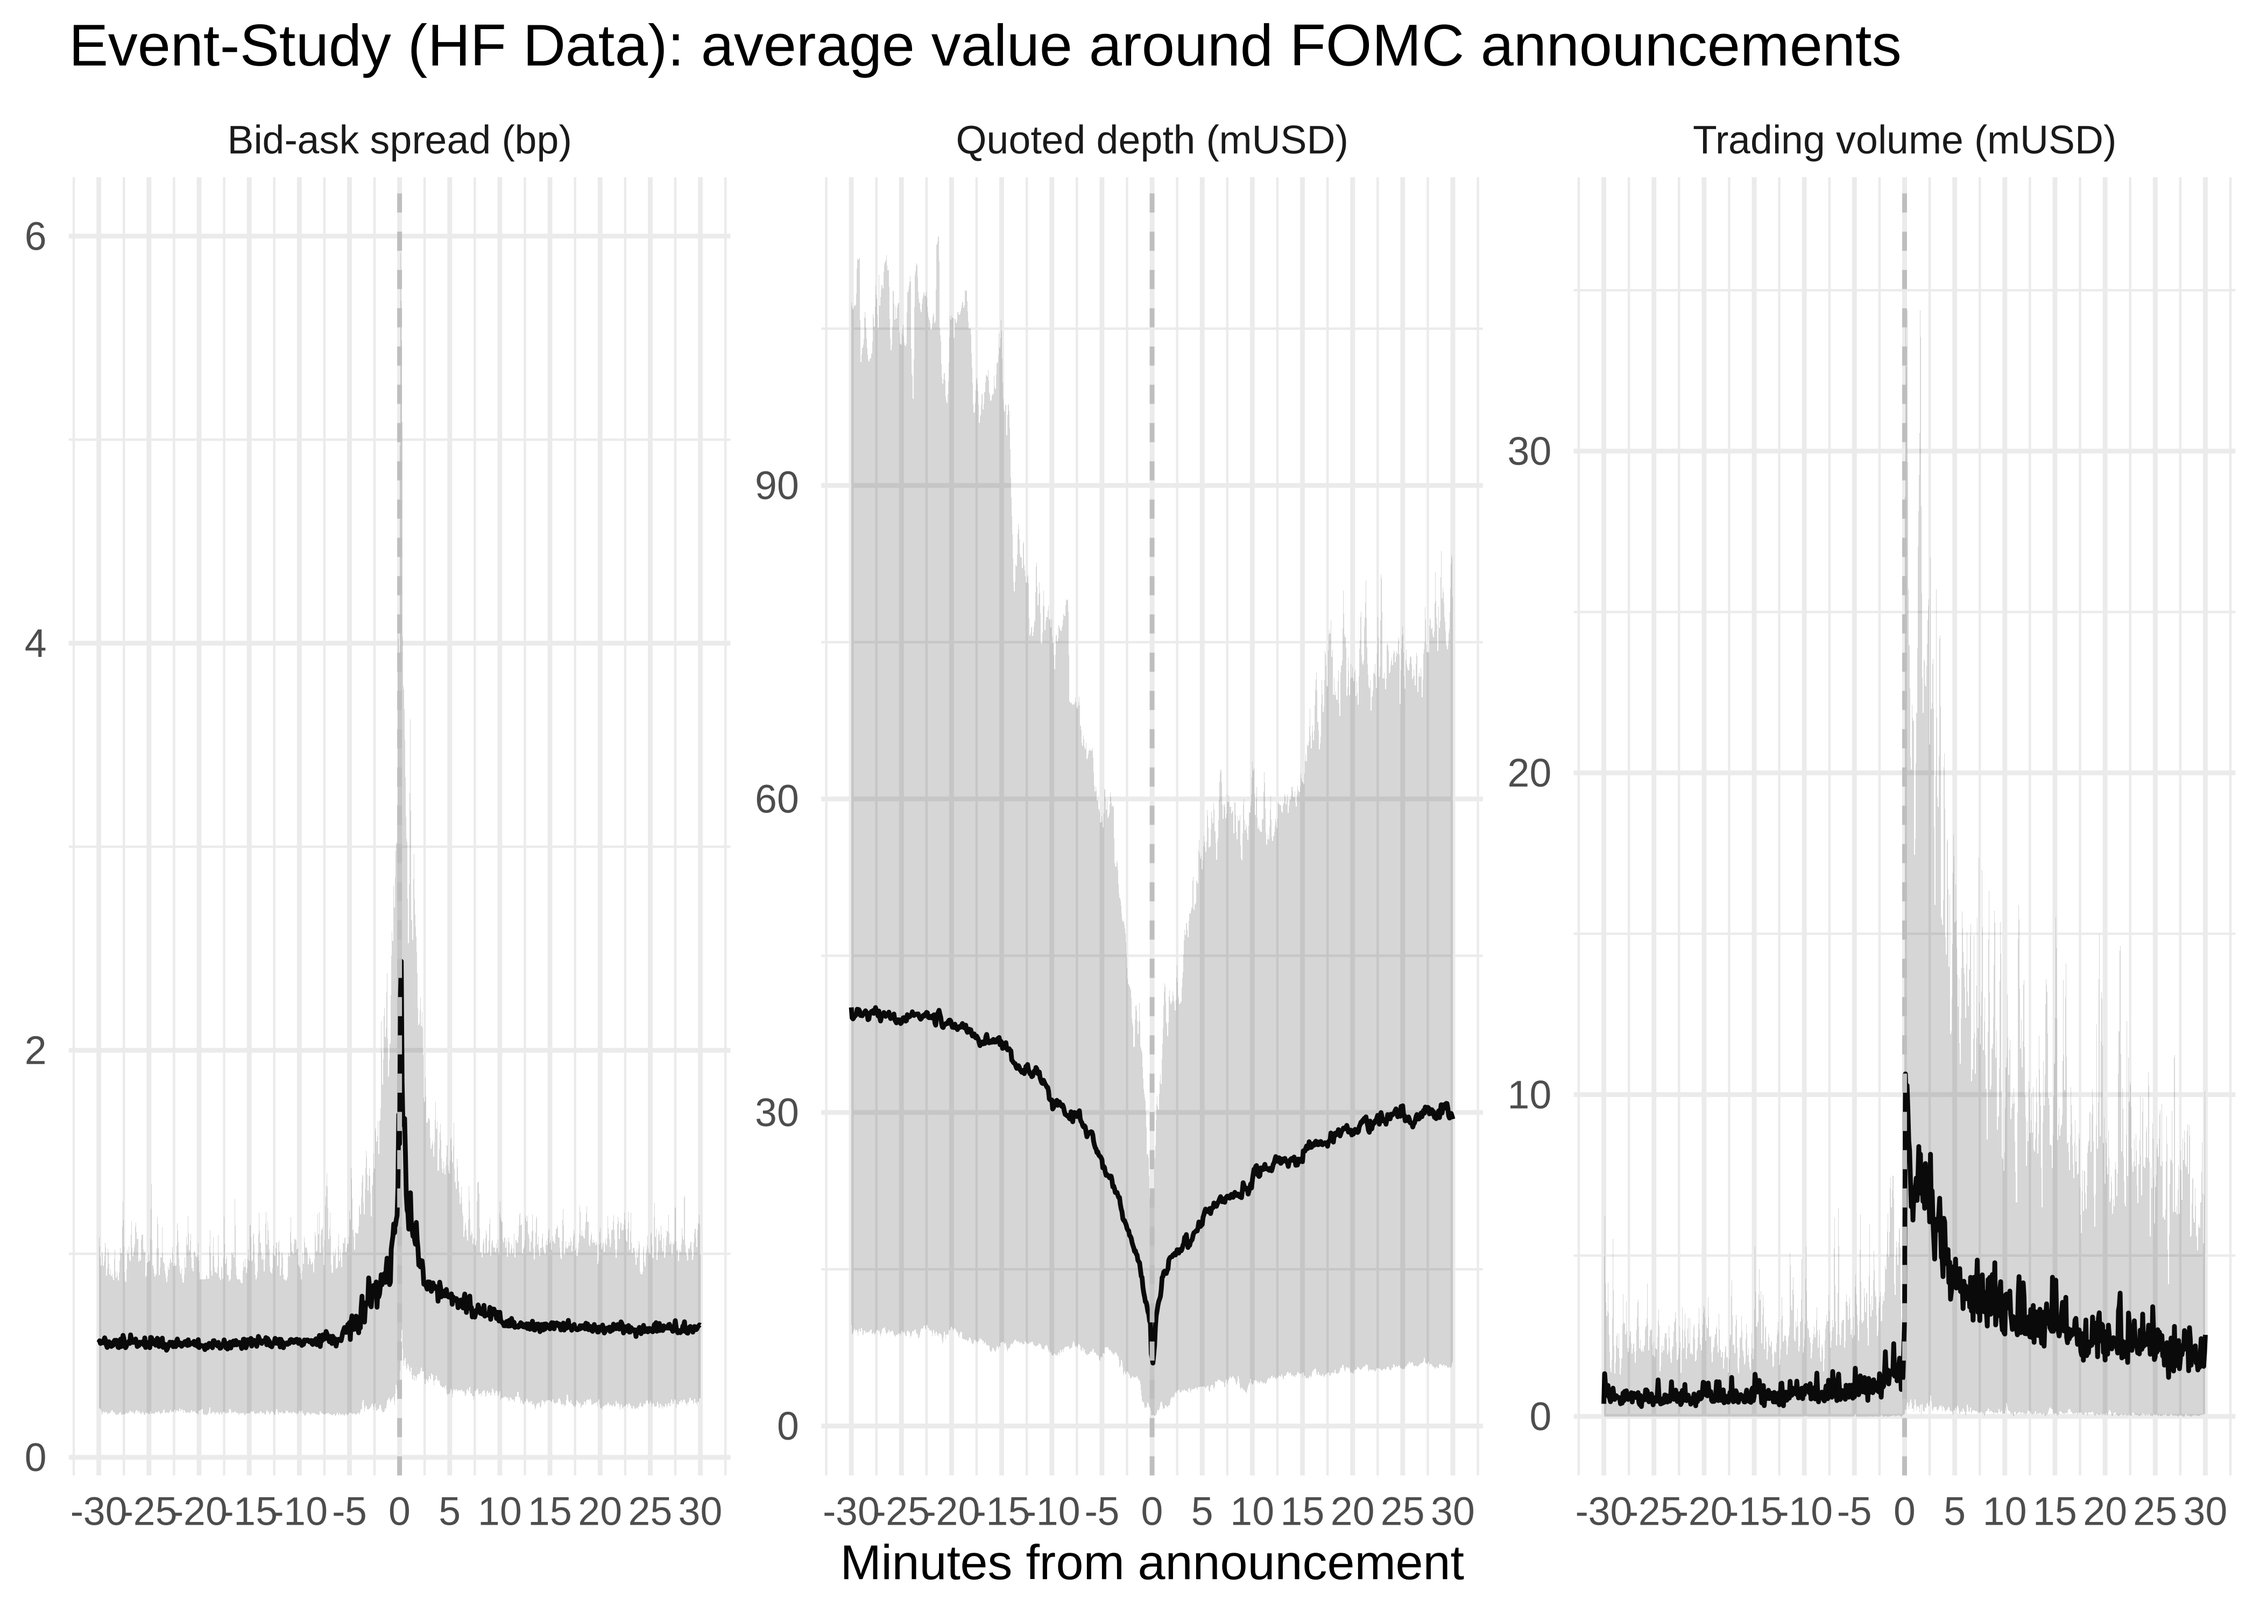
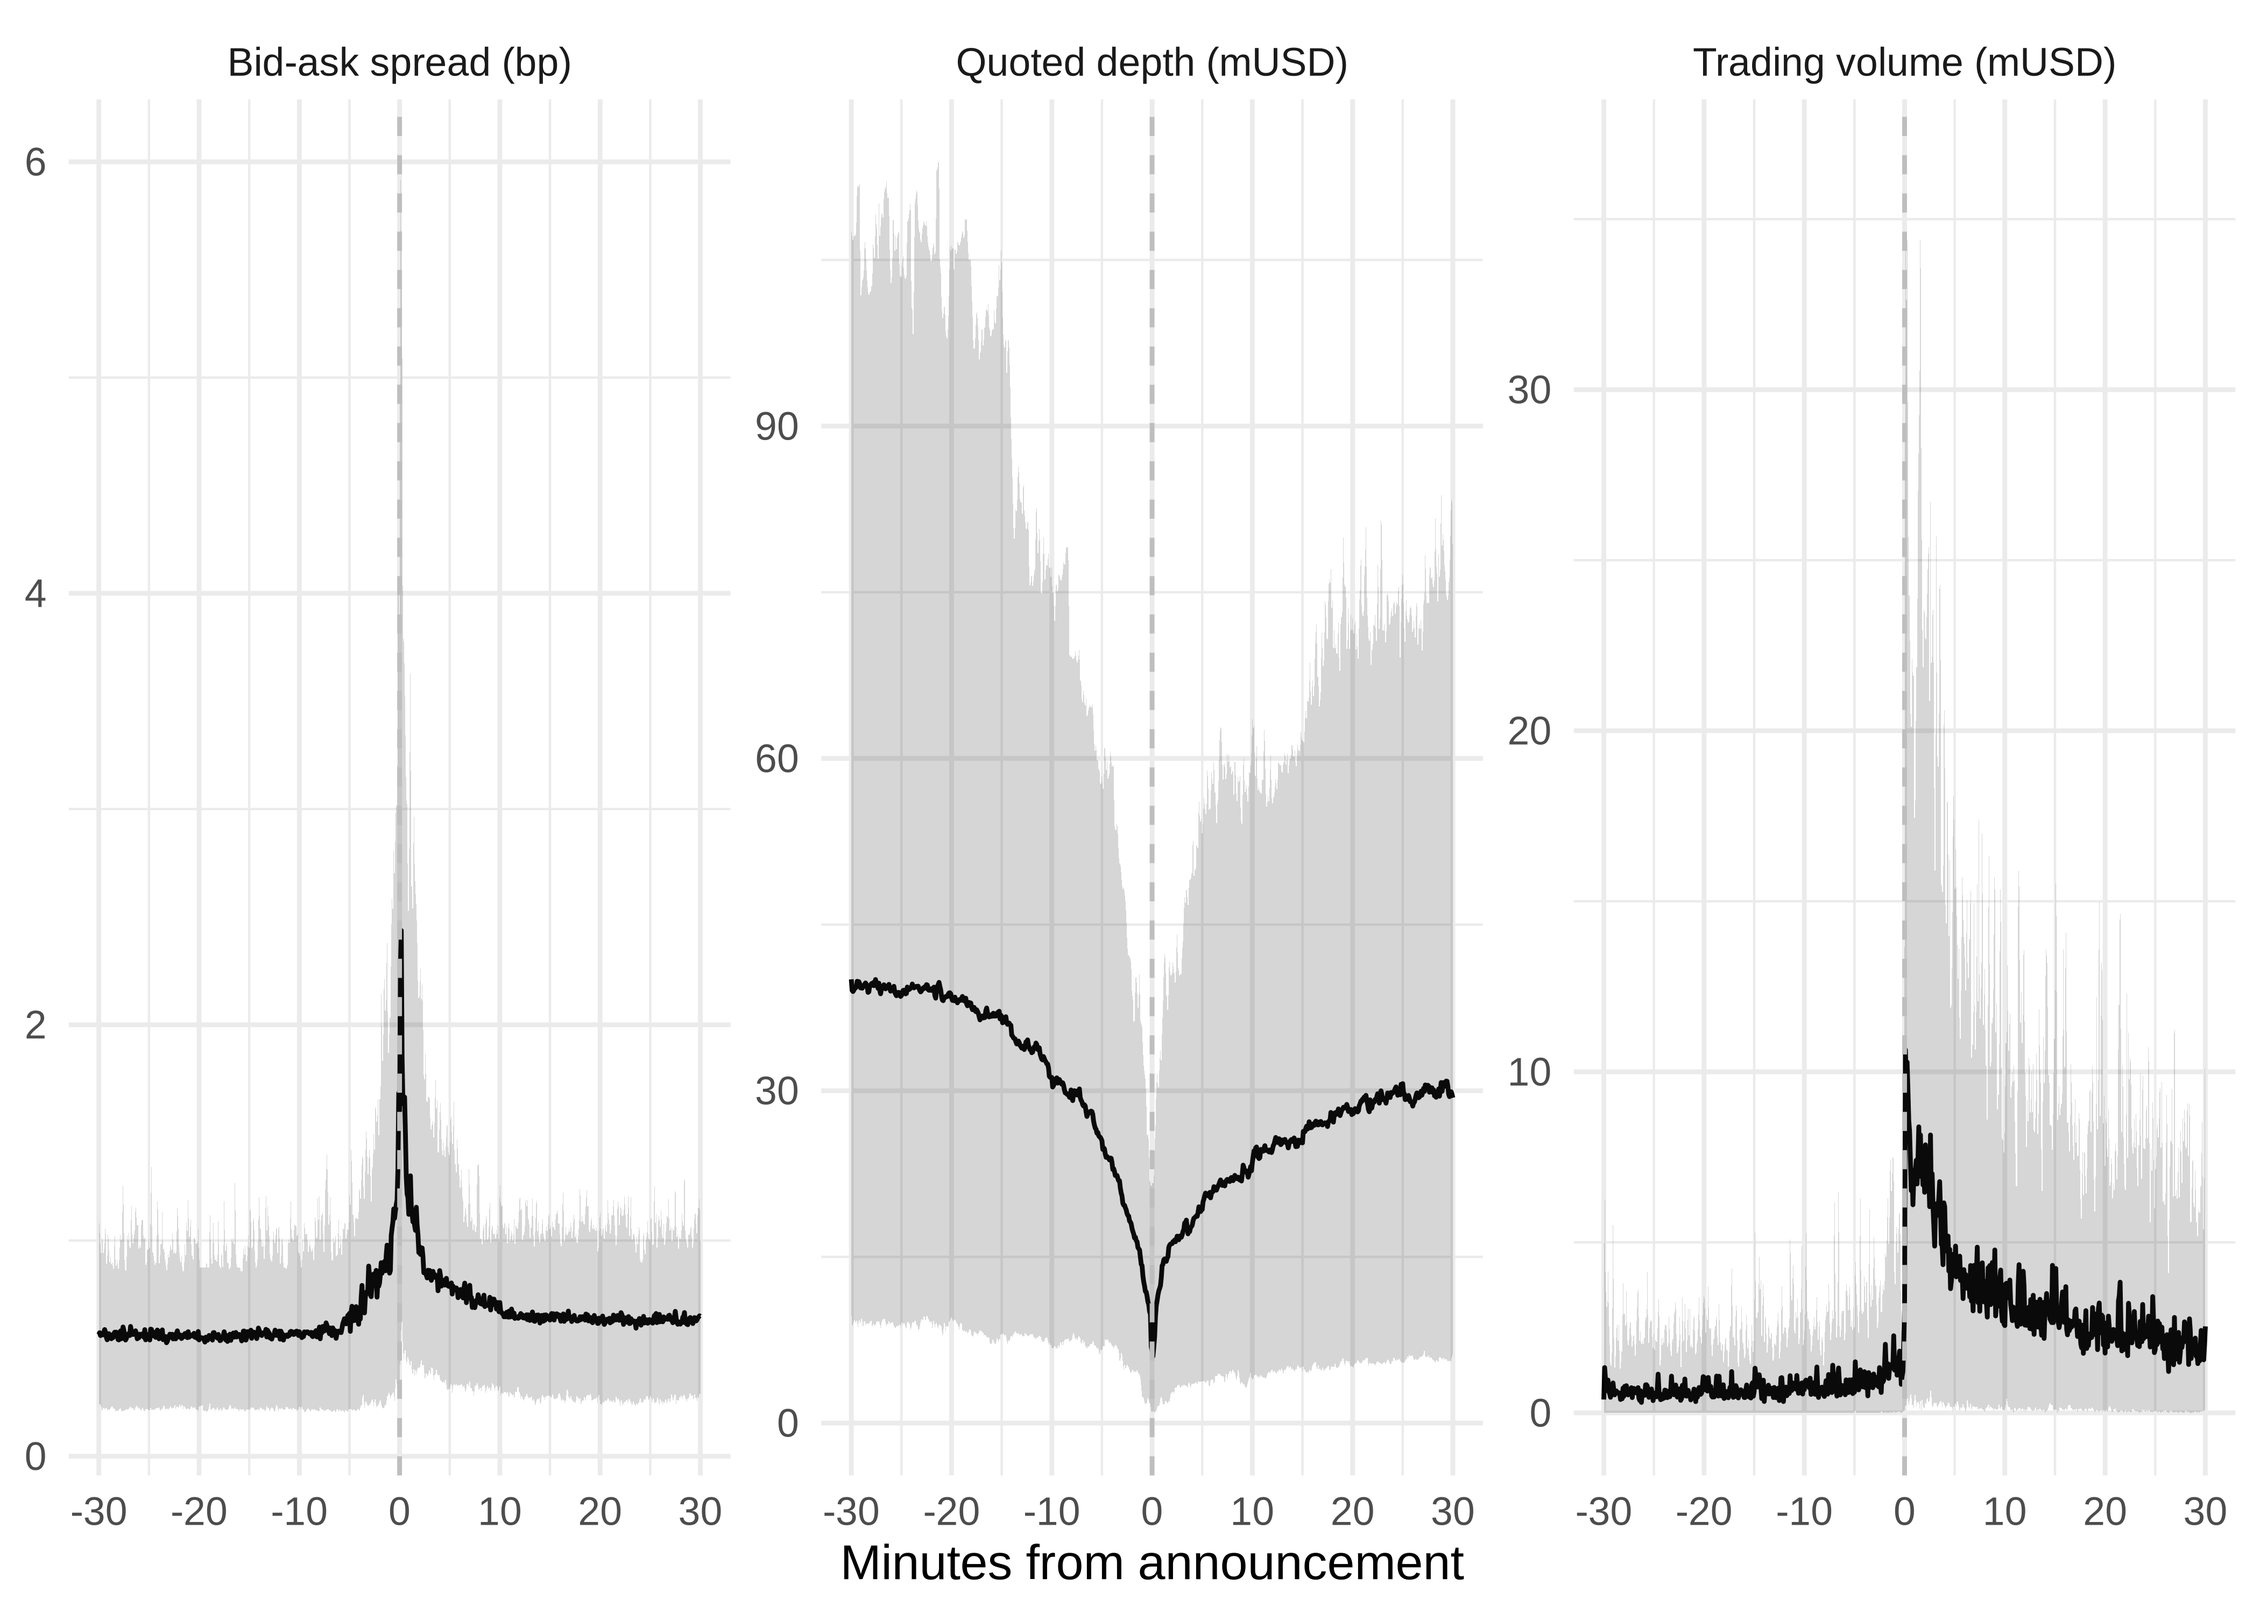
FOMC figure without title, ticks every 10 minutes; the paper analysed more than 45 billion messages

diff --git a/docs/posts/hf-and-hugging-face/index.html b/docs/posts/hf-and-hugging-face/index.html
@@ -442,14 +442,13 @@ cookieconsent.run({
 <span id="cb7-5"><a href="#cb7-5" aria-hidden="true" tabindex="-1"></a>  <span class="fu">labs</span>(</span>
 <span id="cb7-6"><a href="#cb7-6" aria-hidden="true" tabindex="-1"></a>    <span class="at">x =</span> <span class="st">"Minutes from announcement"</span>,</span>
 <span id="cb7-7"><a href="#cb7-7" aria-hidden="true" tabindex="-1"></a>    <span class="at">y =</span> <span class="cn">NULL</span>,</span>
-<span id="cb7-8"><a href="#cb7-8" aria-hidden="true" tabindex="-1"></a>    <span class="at">title =</span> <span class="st">"Event-Study (HF Data): average value around FOMC announcements"</span>,</span>
-<span id="cb7-9"><a href="#cb7-9" aria-hidden="true" tabindex="-1"></a>    <span class="at">color =</span> <span class="cn">NULL</span></span>
-<span id="cb7-10"><a href="#cb7-10" aria-hidden="true" tabindex="-1"></a>  ) <span class="sc">+</span></span>
-<span id="cb7-11"><a href="#cb7-11" aria-hidden="true" tabindex="-1"></a>  <span class="fu">geom_ribbon</span>(<span class="fu">aes</span>(<span class="at">ymin =</span> p5, <span class="at">ymax =</span> p95), <span class="at">alpha =</span> <span class="fl">0.2</span>) <span class="sc">+</span></span>
-<span id="cb7-12"><a href="#cb7-12" aria-hidden="true" tabindex="-1"></a>  <span class="fu">geom_vline</span>(<span class="at">xintercept =</span> <span class="dv">0</span>, <span class="at">linetype =</span> <span class="st">"dashed"</span>, <span class="at">color =</span> <span class="st">"grey"</span>) <span class="sc">+</span></span>
-<span id="cb7-13"><a href="#cb7-13" aria-hidden="true" tabindex="-1"></a>  <span class="fu">theme_minimal</span>() <span class="sc">+</span></span>
-<span id="cb7-14"><a href="#cb7-14" aria-hidden="true" tabindex="-1"></a>  <span class="fu">theme</span>(<span class="at">legend.position =</span> <span class="st">"None"</span>) <span class="sc">+</span></span>
-<span id="cb7-15"><a href="#cb7-15" aria-hidden="true" tabindex="-1"></a>  <span class="fu">scale_x_continuous</span>(<span class="at">breaks =</span> <span class="fu">seq</span>(<span class="sc">-</span>window_size, window_size, <span class="at">by =</span> <span class="dv">5</span>))</span></code></pre></div><button title="Copy to Clipboard" class="code-copy-button"><i class="bi"></i></button></div>
+<span id="cb7-8"><a href="#cb7-8" aria-hidden="true" tabindex="-1"></a>    <span class="at">color =</span> <span class="cn">NULL</span></span>
+<span id="cb7-9"><a href="#cb7-9" aria-hidden="true" tabindex="-1"></a>  ) <span class="sc">+</span></span>
+<span id="cb7-10"><a href="#cb7-10" aria-hidden="true" tabindex="-1"></a>  <span class="fu">geom_ribbon</span>(<span class="fu">aes</span>(<span class="at">ymin =</span> p5, <span class="at">ymax =</span> p95), <span class="at">alpha =</span> <span class="fl">0.2</span>) <span class="sc">+</span></span>
+<span id="cb7-11"><a href="#cb7-11" aria-hidden="true" tabindex="-1"></a>  <span class="fu">geom_vline</span>(<span class="at">xintercept =</span> <span class="dv">0</span>, <span class="at">linetype =</span> <span class="st">"dashed"</span>, <span class="at">color =</span> <span class="st">"grey"</span>) <span class="sc">+</span></span>
+<span id="cb7-12"><a href="#cb7-12" aria-hidden="true" tabindex="-1"></a>  <span class="fu">theme_minimal</span>() <span class="sc">+</span></span>
+<span id="cb7-13"><a href="#cb7-13" aria-hidden="true" tabindex="-1"></a>  <span class="fu">theme</span>(<span class="at">legend.position =</span> <span class="st">"None"</span>) <span class="sc">+</span></span>
+<span id="cb7-14"><a href="#cb7-14" aria-hidden="true" tabindex="-1"></a>  <span class="fu">scale_x_continuous</span>(<span class="at">breaks =</span> <span class="fu">seq</span>(<span class="sc">-</span>window_size, window_size, <span class="at">by =</span> <span class="dv">10</span>))</span></code></pre></div><button title="Copy to Clipboard" class="code-copy-button"><i class="bi"></i></button></div>
 <div class="cell-output-display">
 <div>
 <figure class="figure">

diff --git a/docs/posts/hf-and-lobster/index.html b/docs/posts/hf-and-lobster/index.html
@@ -321,7 +321,7 @@ window.Quarto = {
 <p>A review of the cleaning code in the first version of this post found several errors. Most importantly, hidden trades exactly at the midquote got no sign, which made the signed volume of their whole interval missing (and zero in the published data); in addition, the time weights ignored interval edges, and halts, auctions, and empty or crossed order books were not handled correctly. The code below now implements the corrected cleaning of <a href="https://github.com/voigtstefan/lobsteR">lobsteR</a> in R and in Python (polars), and the SPY dataset on Hugging Face has been rebuilt with it (<a href="https://huggingface.co/datasets/voigtstefan/sp500/blob/c06c532ae041037fe7ad7b855b2b416cc0dcc6e4/README.md">revision c06c532</a>; its dataset card lists all changes).</p>
 </div>
 </div>
-<p>Recently, <a href="https://homepage.univie.ac.at/nikolaus.hautsch/">Nikolaus Hautsch</a>, <a href="https://albertjmenkveld.com/">Albert J. Menkveld</a> and I released a new working paper <a href="https://papers.ssrn.com/sol3/papers.cfm?abstract_id=6298780">Market responses to a VIX shock</a> for which we analysed more than 30 billion order book events and trades in the S&amp;P 500 index tracking ETF SPY. The paper is based on high-frequency data from <a href="https://lobsterdata.com/">LOBSTER</a>, which provides detailed information on the limit order book for all assets traded on NASDAQ.</p>
+<p>Recently, <a href="https://homepage.univie.ac.at/nikolaus.hautsch/">Nikolaus Hautsch</a>, <a href="https://albertjmenkveld.com/">Albert J. Menkveld</a> and I released a new working paper <a href="https://papers.ssrn.com/sol3/papers.cfm?abstract_id=6298780">Market responses to a VIX shock</a> for which we analysed more than 45 billion order book events and trades in the S&amp;P 500 index tracking ETF SPY. The paper is based on high-frequency data from <a href="https://lobsterdata.com/">LOBSTER</a>, which provides detailed information on the limit order book for all assets traded on NASDAQ.</p>
 <p>As part of our research, we developed an R package, <a href="https://voigtstefan.github.io/lobsteR/">lobsteR</a>, to request, download, and clean LOBSTER data. Version 1.0.0 is on CRAN; the development version on GitHub adds the cleaning functions used in this post. We also made cleaned 5-second trading and liquidity information on SPY available for everyone to use.</p>
 <p>This is part one of two blog posts in which we announce and explain these two updates to the Tidy Finance ecosystem.</p>
 <ol type="1">

diff --git a/docs/posts/hf-and-lobster/index.llms.md b/docs/posts/hf-and-lobster/index.llms.md
@@ -2,7 +2,7 @@
 >
 > A review of the cleaning code in the first version of this post found several errors. Most importantly, hidden trades exactly at the midquote got no sign, which made the signed volume of their whole interval missing (and zero in the published data); in addition, the time weights ignored interval edges, and halts, auctions, and empty or crossed order books were not handled correctly. The code below now implements the corrected cleaning of [lobsteR](https://github.com/voigtstefan/lobsteR) in R and in Python (polars), and the SPY dataset on Hugging Face has been rebuilt with it ([revision c06c532](https://huggingface.co/datasets/voigtstefan/sp500/blob/c06c532ae041037fe7ad7b855b2b416cc0dcc6e4/README.md); its dataset card lists all changes).
 
-Recently, [Nikolaus Hautsch](https://homepage.univie.ac.at/nikolaus.hautsch/), [Albert J. Menkveld](https://albertjmenkveld.com/) and I released a new working paper [Market responses to a VIX shock](https://papers.ssrn.com/sol3/papers.cfm?abstract_id=6298780) for which we analysed more than 30 billion order book events and trades in the S&P 500 index tracking ETF SPY. The paper is based on high-frequency data from [LOBSTER](https://lobsterdata.com/), which provides detailed information on the limit order book for all assets traded on NASDAQ.
+Recently, [Nikolaus Hautsch](https://homepage.univie.ac.at/nikolaus.hautsch/), [Albert J. Menkveld](https://albertjmenkveld.com/) and I released a new working paper [Market responses to a VIX shock](https://papers.ssrn.com/sol3/papers.cfm?abstract_id=6298780) for which we analysed more than 45 billion order book events and trades in the S&P 500 index tracking ETF SPY. The paper is based on high-frequency data from [LOBSTER](https://lobsterdata.com/), which provides detailed information on the limit order book for all assets traded on NASDAQ.
 
 As part of our research, we developed an R package, [lobsteR](https://voigtstefan.github.io/lobsteR/), to request, download, and clean LOBSTER data. Version 1.0.0 is on CRAN; the development version on GitHub adds the cleaning functions used in this post. We also made cleaned 5-second trading and liquidity information on SPY available for everyone to use.
 

diff --git a/docs/posts/hf-and-hugging-face/index.llms.md b/docs/posts/hf-and-hugging-face/index.llms.md
@@ -185,14 +185,13 @@ hf_data |>
   labs(
     x = "Minutes from announcement",
     y = NULL,
-    title = "Event-Study (HF Data): average value around FOMC announcements",
     color = NULL
   ) +
   geom_ribbon(aes(ymin = p5, ymax = p95), alpha = 0.2) +
   geom_vline(xintercept = 0, linetype = "dashed", color = "grey") +
   theme_minimal() +
   theme(legend.position = "None") +
-  scale_x_continuous(breaks = seq(-window_size, window_size, by = 5))
+  scale_x_continuous(breaks = seq(-window_size, window_size, by = 10))
 ```
 
 [![](index_files/figure-html/plot-event-study-1.png)](index_files/figure-html/plot-event-study-1.png)
